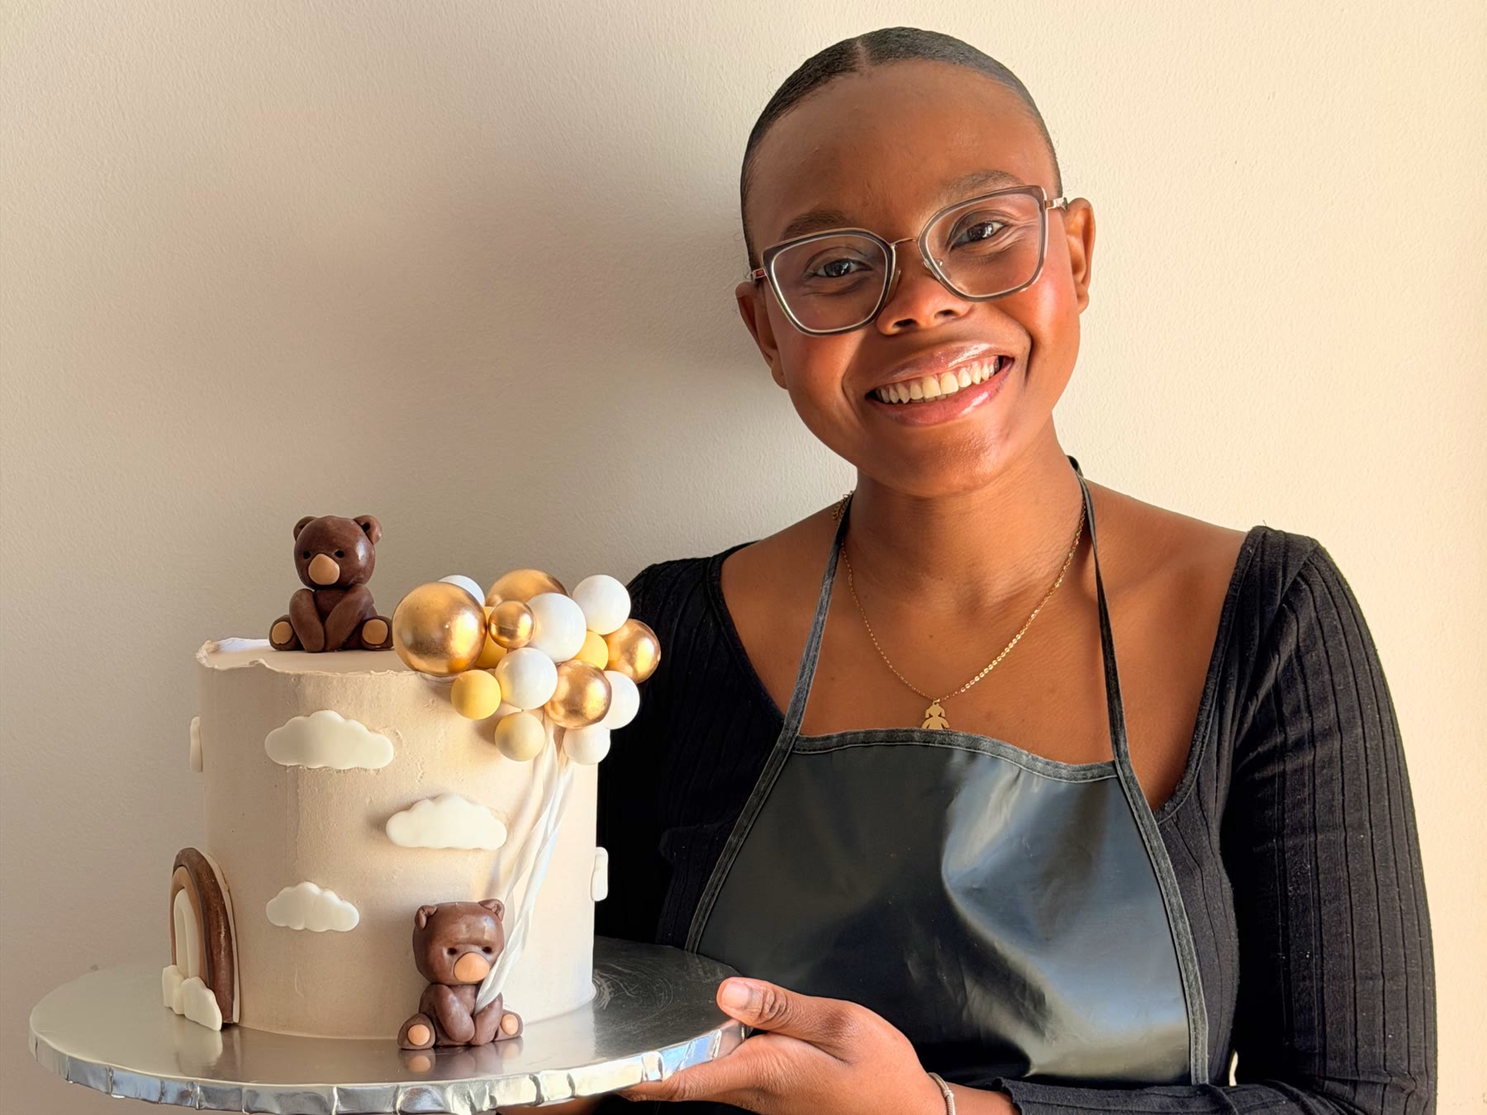
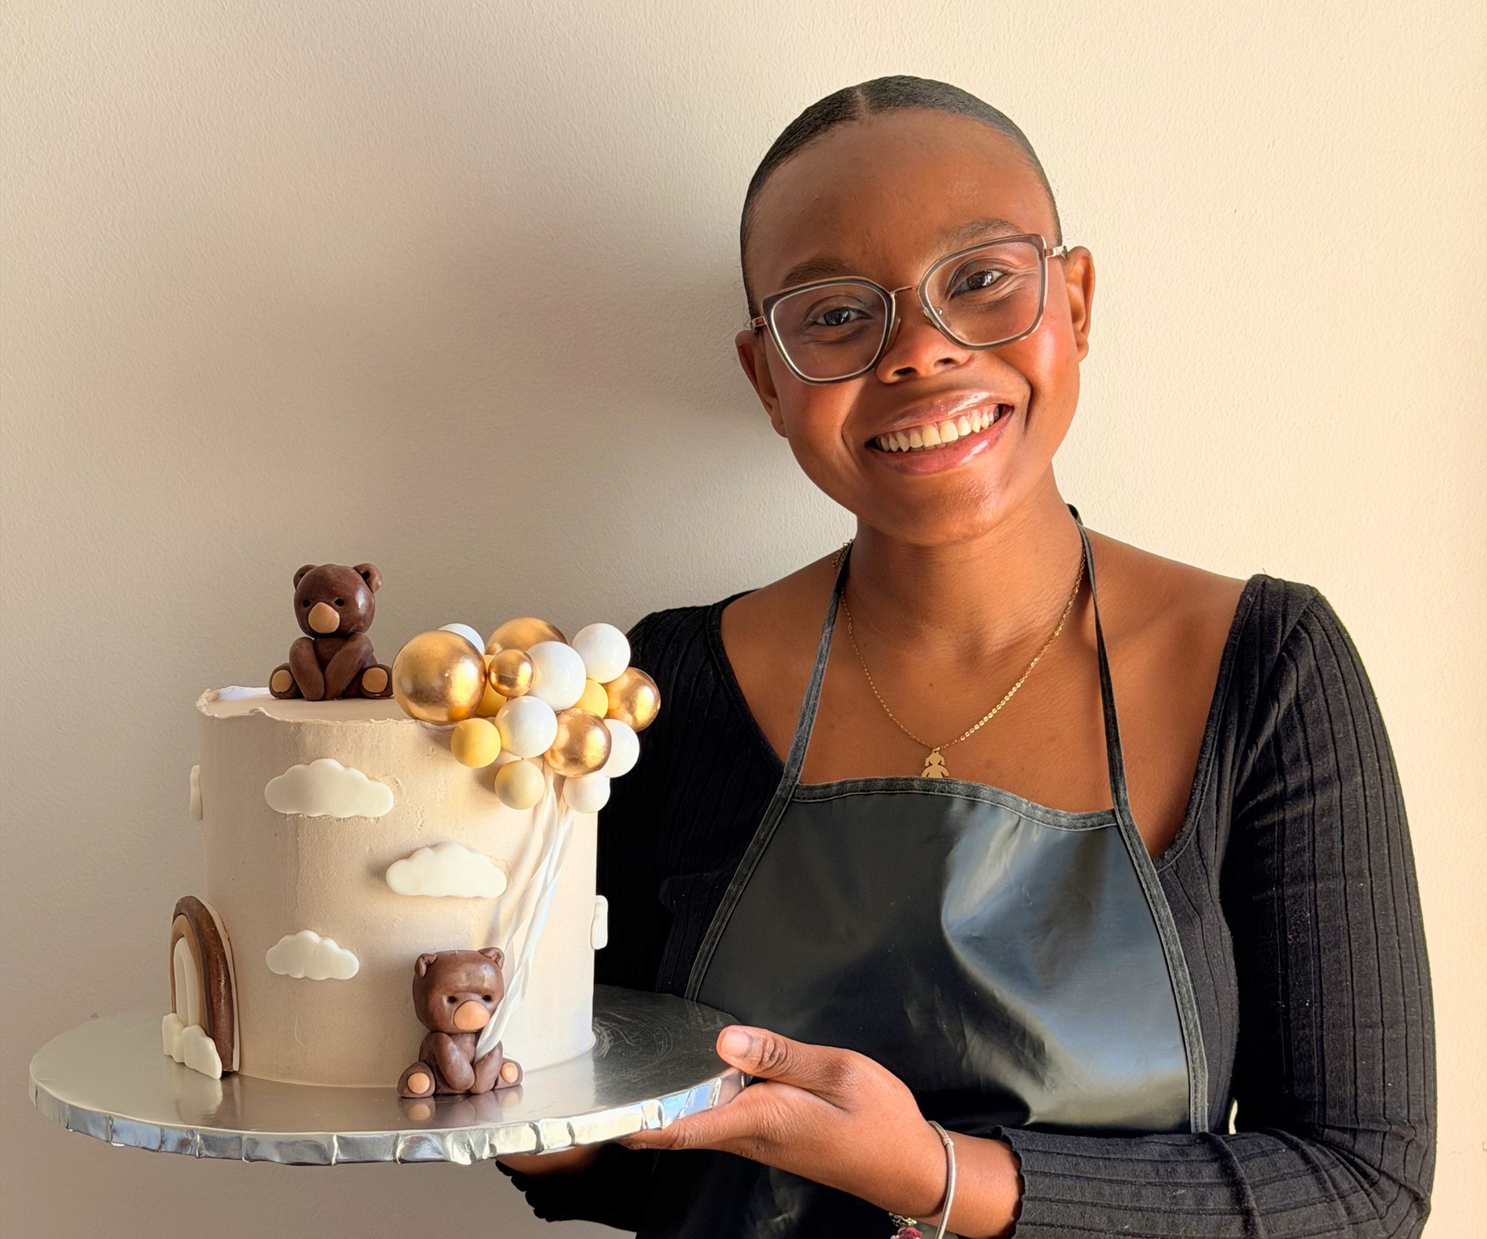
Show full cake in homepage hero

Changed region(s): [[0.0311, 0.4044, 0.9644, 1.0], [0.4978, 0.0, 0.7467, 0.3733]]

diff --git a/pages.css b/pages.css
@@ -1,1 +1,1 @@
-:root{--espresso:#3B2311;--cocoa:#6d3c22;--cream:#FDF6EE;--vanilla:#fffaf3;--rose:#d9b4a5;--terracotta:#A34B1B;--sage:#c8b09a;--ink:#3B2311;--muted:#765f50;--line:rgba(59,35,17,.16);--max:1180px;--shadow:0 24px 70px rgba(59,35,17,.12)}*{box-sizing:border-box}html{scroll-behavior:smooth}body{margin:0;background:var(--cream);color:var(--ink);font-family:Arial,Helvetica,sans-serif;line-height:1.55}a{color:inherit}.skip{position:absolute;left:-999px;top:12px;background:var(--espresso);color:var(--vanilla);padding:10px 14px;z-index:10}.skip:focus{left:12px}.wrap{width:min(calc(100% - 40px),var(--max));margin:auto}header{position:sticky;top:0;z-index:5;background:rgba(253,246,238,.9);backdrop-filter:blur(14px);border-bottom:1px solid var(--line)}.nav{min-height:78px;display:flex;align-items:center;justify-content:space-between;gap:26px}.brand{text-decoration:none;display:block}.brand-logo{display:block;width:min(132px,30vw);height:auto}.nav-links{display:flex;align-items:center;gap:28px;font-size:.86rem;color:var(--muted)}.nav-links a{text-decoration:none}.nav-links a:hover,.nav-links a.active{color:var(--terracotta)}.menu-toggle{display:none;border:1px solid var(--line);background:transparent;color:var(--ink);border-radius:999px;min-height:42px;padding:0 14px;font:inherit;font-weight:700;cursor:pointer}.menu-toggle:before{content:'☰';font-size:1.05rem}.sr-only{position:absolute;width:1px;height:1px;padding:0;margin:-1px;overflow:hidden;clip:rect(0,0,0,0);white-space:nowrap;border:0}.button{display:inline-flex;align-items:center;justify-content:center;min-height:46px;padding:0 20px;border-radius:999px;text-decoration:none;font-weight:700;font-size:.85rem;transition:transform .2s ease,background .2s ease}.button:hover{transform:translateY(-2px)}.button.dark{background:var(--espresso);color:var(--vanilla)}.button.light{border:1px solid var(--line)}.progress{position:fixed;z-index:9;top:0;left:0;width:100%;height:3px}.progress span{display:block;height:100%;width:0;background:linear-gradient(90deg,var(--rose),var(--terracotta));transform-origin:left}.page-hero{padding:120px 0 90px;position:relative;overflow:hidden}.page-hero:after{content:"";position:absolute;width:440px;height:440px;border-radius:50%;background:rgba(163,75,27,.1);right:-170px;top:-170px;z-index:-1}.eyebrow,.kicker{font-size:.7rem;letter-spacing:.2em;text-transform:uppercase;font-weight:700;color:var(--terracotta)}h1,h2,h3{font-family:Georgia,'Times New Roman',serif;line-height:1.05;font-weight:400;letter-spacing:-.045em}h1{font-size:clamp(3.5rem,8vw,7rem);max-width:750px;margin:18px 0 22px}h2{font-size:clamp(2.6rem,5vw,5rem);margin:14px 0 22px}h3{font-size:1.7rem;margin:0 0 10px}.lead{font-size:1.1rem;color:var(--muted);max-width:590px}.intro-grid{display:grid;grid-template-columns:.9fr 1.1fr;gap:70px;align-items:end}.section{padding:100px 0}.section-head{display:flex;justify-content:space-between;gap:40px;align-items:end;margin-bottom:42px}.section-intro{max-width:500px;color:var(--muted)}.dark-section{background:var(--espresso);color:var(--vanilla)}.dark-section .kicker{color:var(--rose)}.dark-section .section-intro{color:rgba(255,250,243,.68)}.soft-section{background:var(--vanilla)}.menu-grid{display:grid;grid-template-columns:repeat(3,1fr);gap:18px}.menu-card{padding:28px 24px 30px;border-top:2px solid var(--rose);background:var(--cream);min-height:270px;display:flex;flex-direction:column}.menu-card:nth-child(2){border-color:var(--terracotta)}.menu-card:nth-child(3){border-color:var(--sage)}.menu-card p{color:var(--muted);margin:0}.menu-card small{margin-top:auto;padding-top:26px;color:var(--cocoa);letter-spacing:.14em;text-transform:uppercase;font-size:.7rem;font-weight:700}.list{border-top:1px solid var(--line)}.list-item{display:grid;grid-template-columns:60px 1fr auto;gap:24px;align-items:center;padding:21px 0;border-bottom:1px solid var(--line)}.list-item b{color:var(--terracotta);font-family:Georgia,serif;font-size:1.4rem;font-weight:400}.list-item span{color:var(--muted)}.list-item em{font-style:normal;color:var(--cocoa);font-size:.75rem;letter-spacing:.1em;text-transform:uppercase}.image-card{min-height:400px;background:url('assets/fluffy-cakes-hero.jpg') center/cover;border-radius:5px 72px 5px 5px;box-shadow:var(--shadow);position:relative;overflow:hidden}.image-card:after{content:"Fluffy Cakes";position:absolute;left:24px;bottom:22px;color:white;font-family:Georgia,serif;font-size:1.8rem;text-shadow:0 2px 15px rgba(0,0,0,.35)}.story-grid{display:grid;grid-template-columns:1.1fr .9fr;gap:80px}.story-copy{font:400 clamp(1.5rem,3vw,2.4rem)/1.2 Georgia,serif}.story-copy p{margin:0}.story-side{color:var(--muted)}.line-list{margin-top:32px}.line-list div{padding:15px 0;border-bottom:1px solid var(--line);display:flex;justify-content:space-between}.line-list span{color:var(--terracotta)}.gallery-grid{display:grid;grid-template-columns:1.15fr .85fr;gap:18px}.gallery-tile{min-height:260px;background:var(--rose);padding:24px;display:flex;flex-direction:column;justify-content:flex-end}.gallery-tile.feature{grid-row:span 2;min-height:538px;background:url('assets/fluffy-cakes-hero.jpg') center/cover}.gallery-tile.dark{background:var(--espresso);color:var(--vanilla)}.gallery-tile.sage{background:var(--sage)}.gallery-tile h3{font-size:1.35rem}.gallery-tile p{margin:0;color:var(--muted);font-size:.9rem}.gallery-tile.dark p{color:rgba(255,250,243,.7)}.contact-box{background:var(--rose);padding:52px;display:grid;grid-template-columns:1fr .8fr;gap:50px;align-items:end}.contact-box p{max-width:520px;color:#573c33}.contact-links{display:flex;flex-direction:column;align-items:flex-end;gap:14px}.contact-links a{font-family:Georgia,serif;font-size:1.25rem;text-decoration:none;border-bottom:1px solid rgba(59,35,17,.35)}form{display:grid;gap:16px;max-width:700px}label{font-size:.78rem;font-weight:700;color:var(--cocoa)}input,textarea,select{width:100%;margin-top:7px;border:1px solid var(--line);border-radius:3px;background:var(--vanilla);padding:14px;color:var(--ink);font:inherit}textarea{min-height:140px;resize:vertical}.form-row{display:grid;grid-template-columns:1fr 1fr;gap:16px}.demo-note{margin-top:18px;color:var(--muted);font-size:.82rem;font-style:italic}footer{padding:28px 0 40px;color:var(--muted);font-size:.8rem;border-top:1px solid var(--line)}.footer-row{display:flex;justify-content:space-between;gap:20px}html.js [data-reveal]{opacity:0;transform:translateY(32px);transition:opacity .8s ease,transform .8s cubic-bezier(.22,.8,.24,1)}html.js [data-reveal].in{opacity:1;transform:none}:focus-visible{outline:3px solid var(--terracotta);outline-offset:4px}@media(max-width:820px){.nav{flex-wrap:wrap}.nav-links{display:none;order:3;width:100%;overflow-x:auto;justify-content:flex-start;padding:12px 0 10px;gap:22px;white-space:nowrap}.nav.nav-open .nav-links{display:flex}.nav .menu-toggle{display:block;order:2;margin-left:auto}.intro-grid,.story-grid,.contact-box{grid-template-columns:1fr;gap:35px}.section-head{display:block}.menu-grid{grid-template-columns:1fr 1fr}.contact-links{align-items:flex-start}.gallery-grid{grid-template-columns:1fr}.gallery-tile.feature{grid-row:auto;min-height:400px}}@media(max-width:560px){.wrap{width:min(calc(100% - 28px),var(--max))}.nav{min-height:68px}.nav>.button{min-height:40px;padding:0 14px;font-size:.75rem}.page-hero{padding:80px 0 65px}.section{padding:75px 0}.menu-grid,.form-row{grid-template-columns:1fr}.contact-box{padding:30px 24px}.footer-row{flex-direction:column}.brand-logo{width:112px}}@media(prefers-reduced-motion:reduce){html{scroll-behavior:auto}*,*:before,*:after{animation-duration:.01ms!important;transition-duration:.01ms!important}}
+:root{--espresso:#3B2311;--cocoa:#6d3c22;--cream:#FDF6EE;--vanilla:#fffaf3;--rose:#d9b4a5;--terracotta:#A34B1B;--sage:#c8b09a;--ink:#3B2311;--muted:#765f50;--line:rgba(59,35,17,.16);--max:1180px;--shadow:0 24px 70px rgba(59,35,17,.12)}*{box-sizing:border-box}html{scroll-behavior:smooth}body{margin:0;background:var(--cream);color:var(--ink);font-family:Arial,Helvetica,sans-serif;line-height:1.55}a{color:inherit}.skip{position:absolute;left:-999px;top:12px;background:var(--espresso);color:var(--vanilla);padding:10px 14px;z-index:10}.skip:focus{left:12px}.wrap{width:min(calc(100% - 40px),var(--max));margin:auto}header{position:sticky;top:0;z-index:5;background:rgba(253,246,238,.9);backdrop-filter:blur(14px);border-bottom:1px solid var(--line)}.nav{min-height:78px;display:flex;align-items:center;justify-content:space-between;gap:26px}.brand{text-decoration:none;display:block}.brand-logo{display:block;width:min(132px,30vw);height:auto}.nav-links{display:flex;align-items:center;gap:28px;font-size:.86rem;color:var(--muted)}.nav-links a{text-decoration:none}.nav-links a:hover,.nav-links a.active{color:var(--terracotta)}.menu-toggle{display:none;border:1px solid var(--line);background:transparent;color:var(--ink);border-radius:999px;min-height:42px;padding:0 14px;font:inherit;font-weight:700;cursor:pointer}.menu-toggle:before{content:"";display:block;width:16px;height:2px;background:currentColor;box-shadow:0 -5px currentColor,0 5px currentColor}.sr-only{position:absolute;width:1px;height:1px;padding:0;margin:-1px;overflow:hidden;clip:rect(0,0,0,0);white-space:nowrap;border:0}.button{display:inline-flex;align-items:center;justify-content:center;min-height:46px;padding:0 20px;border-radius:999px;text-decoration:none;font-weight:700;font-size:.85rem;transition:transform .2s ease,background .2s ease}.button:hover{transform:translateY(-2px)}.button.dark{background:var(--espresso);color:var(--vanilla)}.button.light{border:1px solid var(--line)}.progress{position:fixed;z-index:9;top:0;left:0;width:100%;height:3px}.progress span{display:block;height:100%;width:0;background:linear-gradient(90deg,var(--rose),var(--terracotta));transform-origin:left}.page-hero{padding:120px 0 90px;position:relative;overflow:hidden}.page-hero:after{content:"";position:absolute;width:440px;height:440px;border-radius:50%;background:rgba(163,75,27,.1);right:-170px;top:-170px;z-index:-1}.eyebrow,.kicker{font-size:.7rem;letter-spacing:.2em;text-transform:uppercase;font-weight:700;color:var(--terracotta)}h1,h2,h3{font-family:Georgia,'Times New Roman',serif;line-height:1.05;font-weight:400;letter-spacing:-.045em}h1{font-size:clamp(3.5rem,8vw,7rem);max-width:750px;margin:18px 0 22px}h2{font-size:clamp(2.6rem,5vw,5rem);margin:14px 0 22px}h3{font-size:1.7rem;margin:0 0 10px}.lead{font-size:1.1rem;color:var(--muted);max-width:590px}.intro-grid{display:grid;grid-template-columns:.9fr 1.1fr;gap:70px;align-items:end}.section{padding:100px 0}.section-head{display:flex;justify-content:space-between;gap:40px;align-items:end;margin-bottom:42px}.section-intro{max-width:500px;color:var(--muted)}.dark-section{background:var(--espresso);color:var(--vanilla)}.dark-section .kicker{color:var(--rose)}.dark-section .section-intro{color:rgba(255,250,243,.68)}.soft-section{background:var(--vanilla)}.menu-grid{display:grid;grid-template-columns:repeat(3,1fr);gap:18px}.menu-card{padding:28px 24px 30px;border-top:2px solid var(--rose);background:var(--cream);min-height:270px;display:flex;flex-direction:column}.menu-card:nth-child(2){border-color:var(--terracotta)}.menu-card:nth-child(3){border-color:var(--sage)}.menu-card p{color:var(--muted);margin:0}.menu-card small{margin-top:auto;padding-top:26px;color:var(--cocoa);letter-spacing:.14em;text-transform:uppercase;font-size:.7rem;font-weight:700}.list{border-top:1px solid var(--line)}.list-item{display:grid;grid-template-columns:60px 1fr auto;gap:24px;align-items:center;padding:21px 0;border-bottom:1px solid var(--line)}.list-item b{color:var(--terracotta);font-family:Georgia,serif;font-size:1.4rem;font-weight:400}.list-item span{color:var(--muted)}.list-item em{font-style:normal;color:var(--cocoa);font-size:.75rem;letter-spacing:.1em;text-transform:uppercase}.image-card{min-height:400px;background:url('assets/fluffy-cakes-hero.jpg') center/cover;border-radius:5px 72px 5px 5px;box-shadow:var(--shadow);position:relative;overflow:hidden}.image-card:after{content:"Fluffy Cakes";position:absolute;left:24px;bottom:22px;color:white;font-family:Georgia,serif;font-size:1.8rem;text-shadow:0 2px 15px rgba(0,0,0,.35)}.story-grid{display:grid;grid-template-columns:1.1fr .9fr;gap:80px}.story-copy{font:400 clamp(1.5rem,3vw,2.4rem)/1.2 Georgia,serif}.story-copy p{margin:0}.story-side{color:var(--muted)}.line-list{margin-top:32px}.line-list div{padding:15px 0;border-bottom:1px solid var(--line);display:flex;justify-content:space-between}.line-list span{color:var(--terracotta)}.gallery-grid{display:grid;grid-template-columns:1.15fr .85fr;gap:18px}.gallery-tile{min-height:260px;background:var(--rose);padding:24px;display:flex;flex-direction:column;justify-content:flex-end}.gallery-tile.feature{grid-row:span 2;min-height:538px;background:url('assets/fluffy-cakes-hero.jpg') center/cover}.gallery-tile.dark{background:var(--espresso);color:var(--vanilla)}.gallery-tile.sage{background:var(--sage)}.gallery-tile h3{font-size:1.35rem}.gallery-tile p{margin:0;color:var(--muted);font-size:.9rem}.gallery-tile.dark p{color:rgba(255,250,243,.7)}.contact-box{background:var(--rose);padding:52px;display:grid;grid-template-columns:1fr .8fr;gap:50px;align-items:end}.contact-box p{max-width:520px;color:#573c33}.contact-links{display:flex;flex-direction:column;align-items:flex-end;gap:14px}.contact-links a{font-family:Georgia,serif;font-size:1.25rem;text-decoration:none;border-bottom:1px solid rgba(59,35,17,.35)}form{display:grid;gap:16px;max-width:700px}label{font-size:.78rem;font-weight:700;color:var(--cocoa)}input,textarea,select{width:100%;margin-top:7px;border:1px solid var(--line);border-radius:3px;background:var(--vanilla);padding:14px;color:var(--ink);font:inherit}textarea{min-height:140px;resize:vertical}.form-row{display:grid;grid-template-columns:1fr 1fr;gap:16px}.demo-note{margin-top:18px;color:var(--muted);font-size:.82rem;font-style:italic}footer{padding:28px 0 40px;color:var(--muted);font-size:.8rem;border-top:1px solid var(--line)}.footer-row{display:flex;justify-content:space-between;gap:20px}html.js [data-reveal]{opacity:0;transform:translateY(32px);transition:opacity .8s ease,transform .8s cubic-bezier(.22,.8,.24,1)}html.js [data-reveal].in{opacity:1;transform:none}:focus-visible{outline:3px solid var(--terracotta);outline-offset:4px}@media(max-width:820px){.nav{flex-wrap:wrap}.nav-links{display:none;order:3;width:100%;overflow-x:auto;justify-content:flex-start;padding:12px 0 10px;gap:22px;white-space:nowrap}.nav.nav-open .nav-links{display:flex}.nav .menu-toggle{display:block;order:2;margin-left:auto}.intro-grid,.story-grid,.contact-box{grid-template-columns:1fr;gap:35px}.section-head{display:block}.menu-grid{grid-template-columns:1fr 1fr}.contact-links{align-items:flex-start}.gallery-grid{grid-template-columns:1fr}.gallery-tile.feature{grid-row:auto;min-height:400px}}@media(max-width:560px){.wrap{width:min(calc(100% - 28px),var(--max))}.nav{min-height:68px}.nav>.button{min-height:40px;padding:0 14px;font-size:.75rem}.page-hero{padding:80px 0 65px}.section{padding:75px 0}.menu-grid,.form-row{grid-template-columns:1fr}.contact-box{padding:30px 24px}.footer-row{flex-direction:column}.brand-logo{width:112px}}@media(prefers-reduced-motion:reduce){html{scroll-behavior:auto}*,*:before,*:after{animation-duration:.01ms!important;transition-duration:.01ms!important}}

diff --git a/index.html b/index.html
@@ -17,13 +17,13 @@
     a{color:inherit}.wrap{width:min(calc(100% - 40px),var(--max));margin:auto}
     .skip{position:absolute;left:-999px;top:12px;background:var(--espresso);color:#fff;padding:10px 14px;z-index:10}.skip:focus{left:12px}
     header{position:sticky;top:0;z-index:5;background:rgba(247,240,231,.88);backdrop-filter:blur(14px);border-bottom:1px solid var(--line)}
-    .nav{min-height:78px;display:flex;align-items:center;justify-content:space-between;gap:26px}.brand{text-decoration:none;display:flex;align-items:center;gap:12px}.brand-logo{display:block;width:min(132px,30vw);height:auto}.menu-toggle{display:none;border:1px solid var(--line);background:transparent;color:var(--ink);border-radius:999px;min-height:42px;padding:0 14px;font:inherit;font-weight:700;cursor:pointer}.menu-toggle:before{content:'☰';font-size:1.05rem}.sr-only{position:absolute;width:1px;height:1px;padding:0;margin:-1px;overflow:hidden;clip:rect(0,0,0,0);white-space:nowrap;border:0}.brand-signature{display:none}
+    .nav{min-height:78px;display:flex;align-items:center;justify-content:space-between;gap:26px}.brand{text-decoration:none;display:flex;align-items:center;gap:12px}.brand-logo{display:block;width:min(132px,30vw);height:auto}.menu-toggle{display:none;border:1px solid var(--line);background:transparent;color:var(--ink);border-radius:999px;min-height:42px;padding:0 14px;font:inherit;font-weight:700;cursor:pointer}.menu-toggle:before{content:"";display:block;width:16px;height:2px;background:currentColor;box-shadow:0 -5px currentColor,0 5px currentColor}.sr-only{position:absolute;width:1px;height:1px;padding:0;margin:-1px;overflow:hidden;clip:rect(0,0,0,0);white-space:nowrap;border:0}.brand-signature{display:none}
     nav{display:flex;align-items:center;gap:28px;font-size:.86rem;color:var(--muted)}nav a{text-decoration:none}nav a:hover{color:var(--espresso)}nav a[aria-current="page"]{color:var(--terracotta);font-weight:700}
     .button{display:inline-flex;align-items:center;justify-content:center;min-height:46px;padding:0 20px;border-radius:999px;text-decoration:none;font-weight:700;font-size:.85rem;transition:transform .2s ease,background .2s ease}.button:hover{transform:translateY(-2px)}.button.dark{background:var(--espresso);color:var(--vanilla)}.button.light{border:1px solid var(--line)}
     .progress{position:fixed;z-index:9;top:0;left:0;width:100%;height:3px}.progress span{display:block;height:100%;width:0;background:linear-gradient(90deg,var(--rose),var(--cocoa));transform-origin:left}
     .hero{min-height:calc(100vh - 78px);display:grid;grid-template-columns:1fr 1fr;align-items:center;gap:72px;padding:80px 0 110px;position:relative;overflow:hidden}.hero:before{content:"";position:absolute;width:520px;height:520px;border-radius:50%;background:rgba(163,75,27,.12);right:-210px;top:-200px;filter:blur(2px)}
     .eyebrow,.kicker{font-size:.7rem;letter-spacing:.2em;text-transform:uppercase;font-weight:700;color:var(--cocoa)}h1,h2,h3{font-family:Georgia,'Times New Roman',serif;line-height:1.05;font-weight:400;letter-spacing:-.045em}h1{font-size:clamp(4rem,8vw,7.8rem);max-width:650px;margin:20px 0 24px}h2{font-size:clamp(2.8rem,5vw,5rem);margin:14px 0 22px}h3{font-size:1.65rem;margin:0 0 10px}.lead{font-size:1.1rem;color:var(--muted);max-width:510px}.actions{display:flex;gap:12px;flex-wrap:wrap;margin-top:30px}.signature{margin-top:30px;color:var(--muted);font-family:Georgia,serif;font-style:italic}
-    .hero-art{min-height:530px;position:relative;display:grid;place-items:center}.hero-photo{width:min(100%,560px);aspect-ratio:4/3;object-fit:cover;object-position:center center;display:block;border-radius:6px 72px 6px 6px;box-shadow:var(--shadow);filter:saturate(.86) contrast(1.05)}.art-note{position:absolute;bottom:3%;left:0;padding:14px 18px;background:var(--vanilla);box-shadow:var(--shadow);font-family:Georgia,serif;font-size:1.05rem}.art-note span{display:block;font-family:Arial,sans-serif;font-size:.65rem;color:var(--muted);letter-spacing:.16em;text-transform:uppercase;margin-top:5px}
+    .hero-art{min-height:530px;position:relative;display:grid;place-items:center}.hero-photo{width:min(100%,560px);aspect-ratio:6/5;object-fit:cover;object-position:center center;display:block;border-radius:6px 72px 6px 6px;box-shadow:var(--shadow);filter:saturate(.86) contrast(1.05)}.art-note{position:absolute;bottom:3%;left:0;padding:14px 18px;background:var(--vanilla);box-shadow:var(--shadow);font-family:Georgia,serif;font-size:1.05rem}.art-note span{display:block;font-family:Arial,sans-serif;font-size:.65rem;color:var(--muted);letter-spacing:.16em;text-transform:uppercase;margin-top:5px}
     section{padding:110px 0}.dark-section{background:var(--espresso);color:var(--vanilla)}.dark-section .kicker{color:var(--rose)}.section-head{display:grid;grid-template-columns:.8fr 1.2fr;gap:60px;align-items:end;margin-bottom:48px}.section-intro{max-width:520px;color:var(--muted)}.dark-section .section-intro{color:rgba(255,250,243,.67)}
     .story-grid{display:grid;grid-template-columns:1.1fr .9fr;gap:80px;align-items:start}.story-copy{font-family:Georgia,serif;font-size:clamp(1.5rem,3vw,2.4rem);line-height:1.2}.story-copy p{margin:0}.story-side{padding-top:12px;color:rgba(255,250,243,.68)}.story-side p{max-width:410px}.line-list{margin-top:35px;border-top:1px solid rgba(255,250,243,.22)}.line-list div{padding:16px 0;border-bottom:1px solid rgba(255,250,243,.22);display:flex;justify-content:space-between;gap:20px}.line-list span{color:var(--rose)}
     .menu{background:var(--vanilla)}.menu-grid{display:grid;grid-template-columns:repeat(3,1fr);gap:18px}.menu-card{padding:28px 24px 30px;border-top:2px solid var(--rose);background:var(--cream);min-height:280px;display:flex;flex-direction:column}.menu-card:nth-child(2){border-color:var(--cocoa)}.menu-card:nth-child(3){border-color:var(--sage)}.menu-card p{color:var(--muted);margin:0}.menu-card .card-foot{margin-top:auto;padding-top:28px;color:var(--cocoa);font-size:.76rem;letter-spacing:.14em;text-transform:uppercase;font-weight:700}
@@ -33,7 +33,7 @@
     [data-reveal]{opacity:0;transform:translateY(32px);transition:opacity .8s ease,transform .8s cubic-bezier(.22,.8,.24,1)}[data-reveal].in{opacity:1;transform:none}.delay-1{transition-delay:100ms}.delay-2{transition-delay:180ms}.delay-3{transition-delay:260ms}
     :focus-visible{outline:3px solid var(--rose);outline-offset:4px}
     @media(max-width:820px){.nav{flex-wrap:wrap}.nav nav{display:none;order:3;width:100%;overflow-x:auto;justify-content:flex-start;padding:12px 0 10px;gap:20px;white-space:nowrap}.nav.nav-open nav{display:flex}.nav .menu-toggle{display:block;order:2;margin-left:auto}.hero,.story-grid,.contact-box,.section-head{grid-template-columns:1fr;gap:35px}.hero{padding-top:70px}.hero-art{min-height:400px}.menu-grid{grid-template-columns:1fr 1fr}.contact-links{align-items:flex-start}}
-    @media(max-width:560px){.wrap{width:min(calc(100% - 28px),var(--max))}.nav{min-height:68px}.brand-text{font-size:1.12rem}.nav .button{min-height:40px;padding:0 14px;font-size:.75rem}.hero{min-height:auto;padding:70px 0 80px}.hero-art{min-height:340px}.hero-photo{aspect-ratio:4/5;object-position:50% center}.cake-scene{width:100%}section{padding:78px 0}.menu-grid{grid-template-columns:1fr}.contact-box{padding:30px 24px}.footer-row{flex-direction:column}.art-note{font-size:.9rem}}
+    @media(max-width:560px){.wrap{width:min(calc(100% - 28px),var(--max))}.nav{min-height:68px}.brand-text{font-size:1.12rem}.nav .button{min-height:40px;padding:0 14px;font-size:.75rem}.hero{min-height:auto;padding:70px 0 80px}.hero-art{min-height:340px}.hero-photo{aspect-ratio:4/5;object-fit:contain;object-position:center;background:var(--vanilla)}.cake-scene{width:100%}section{padding:78px 0}.menu-grid{grid-template-columns:1fr}.contact-box{padding:30px 24px}.footer-row{flex-direction:column}.art-note{font-size:.9rem}}
     @media(prefers-reduced-motion:reduce){html{scroll-behavior:auto}*,*:before,*:after{animation-duration:.01ms!important;transition-duration:.01ms!important}}
   </style>
 </head>
